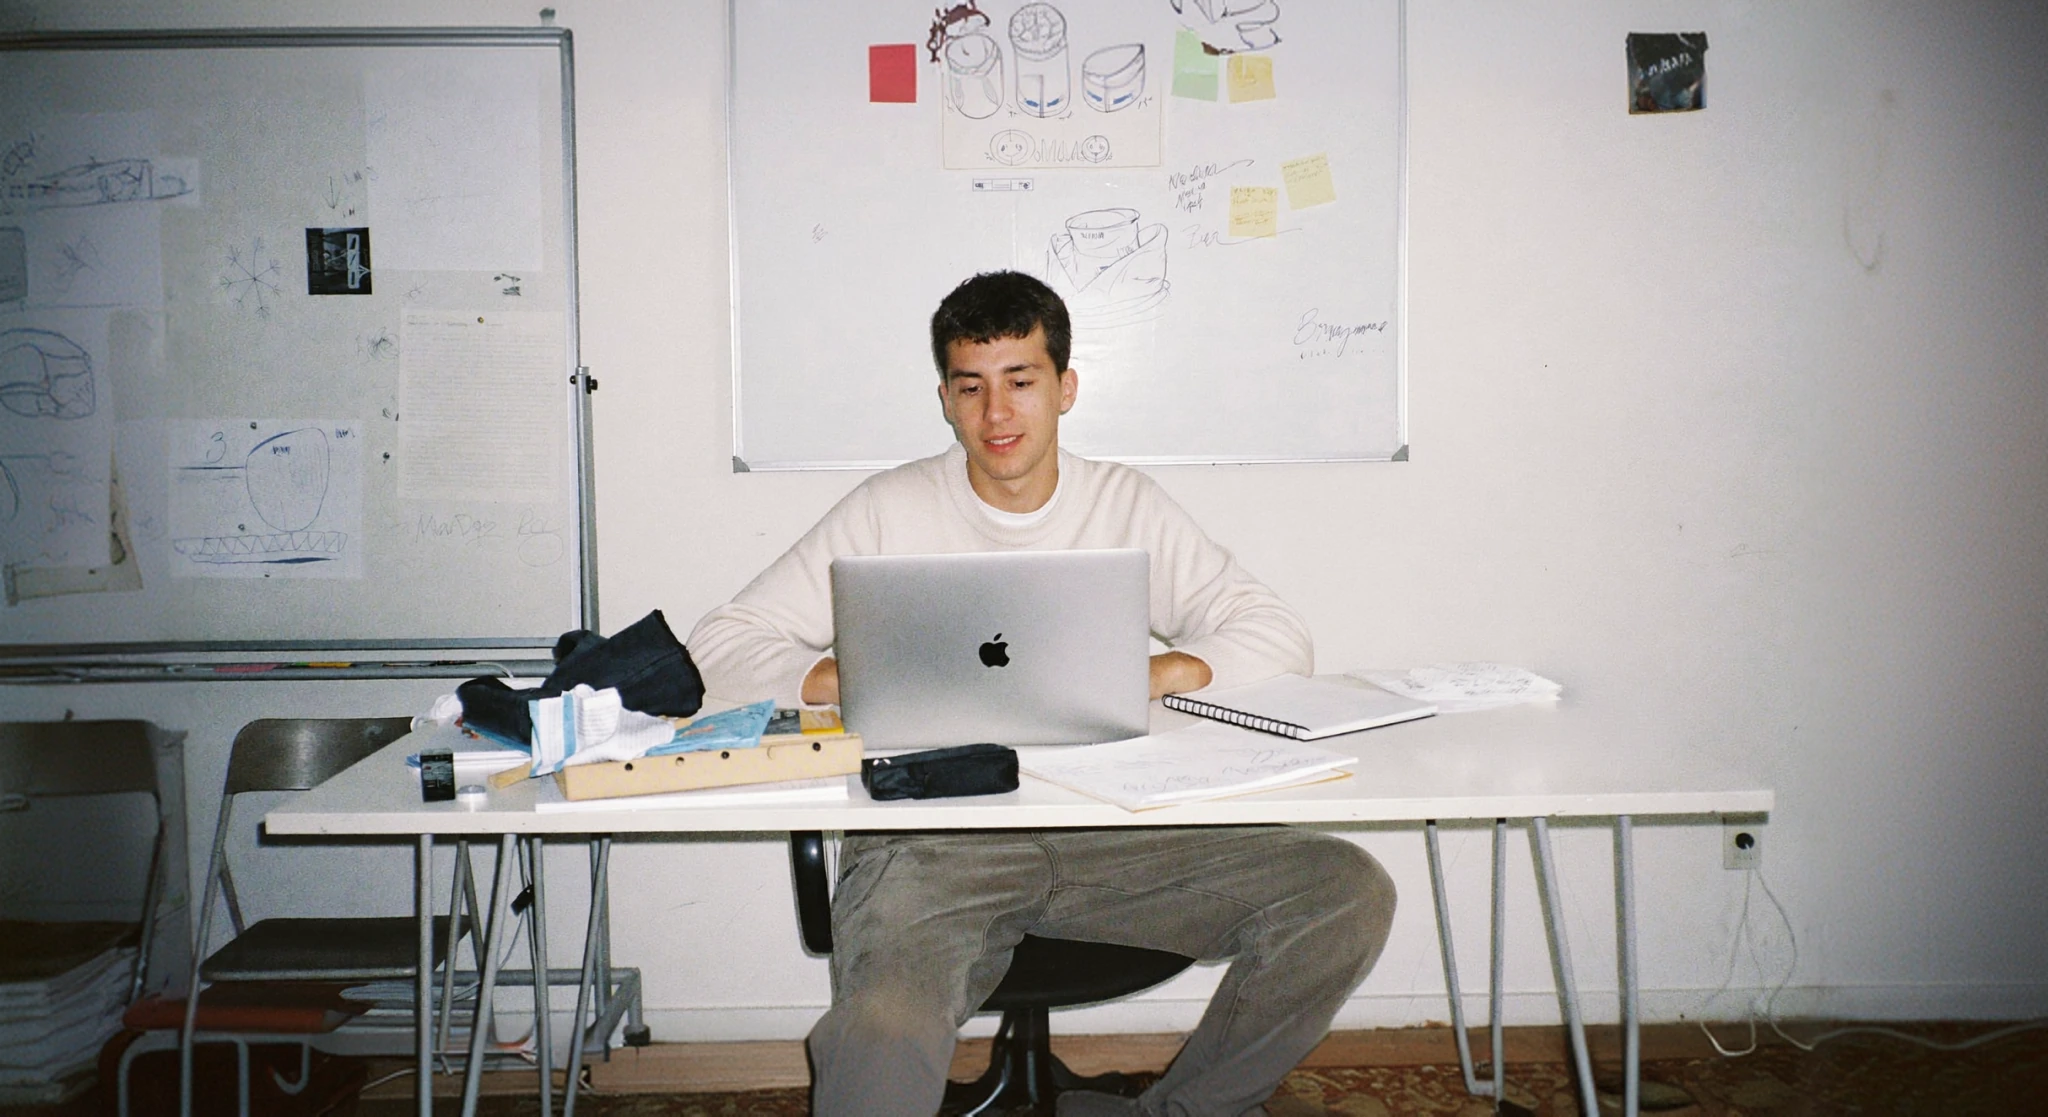
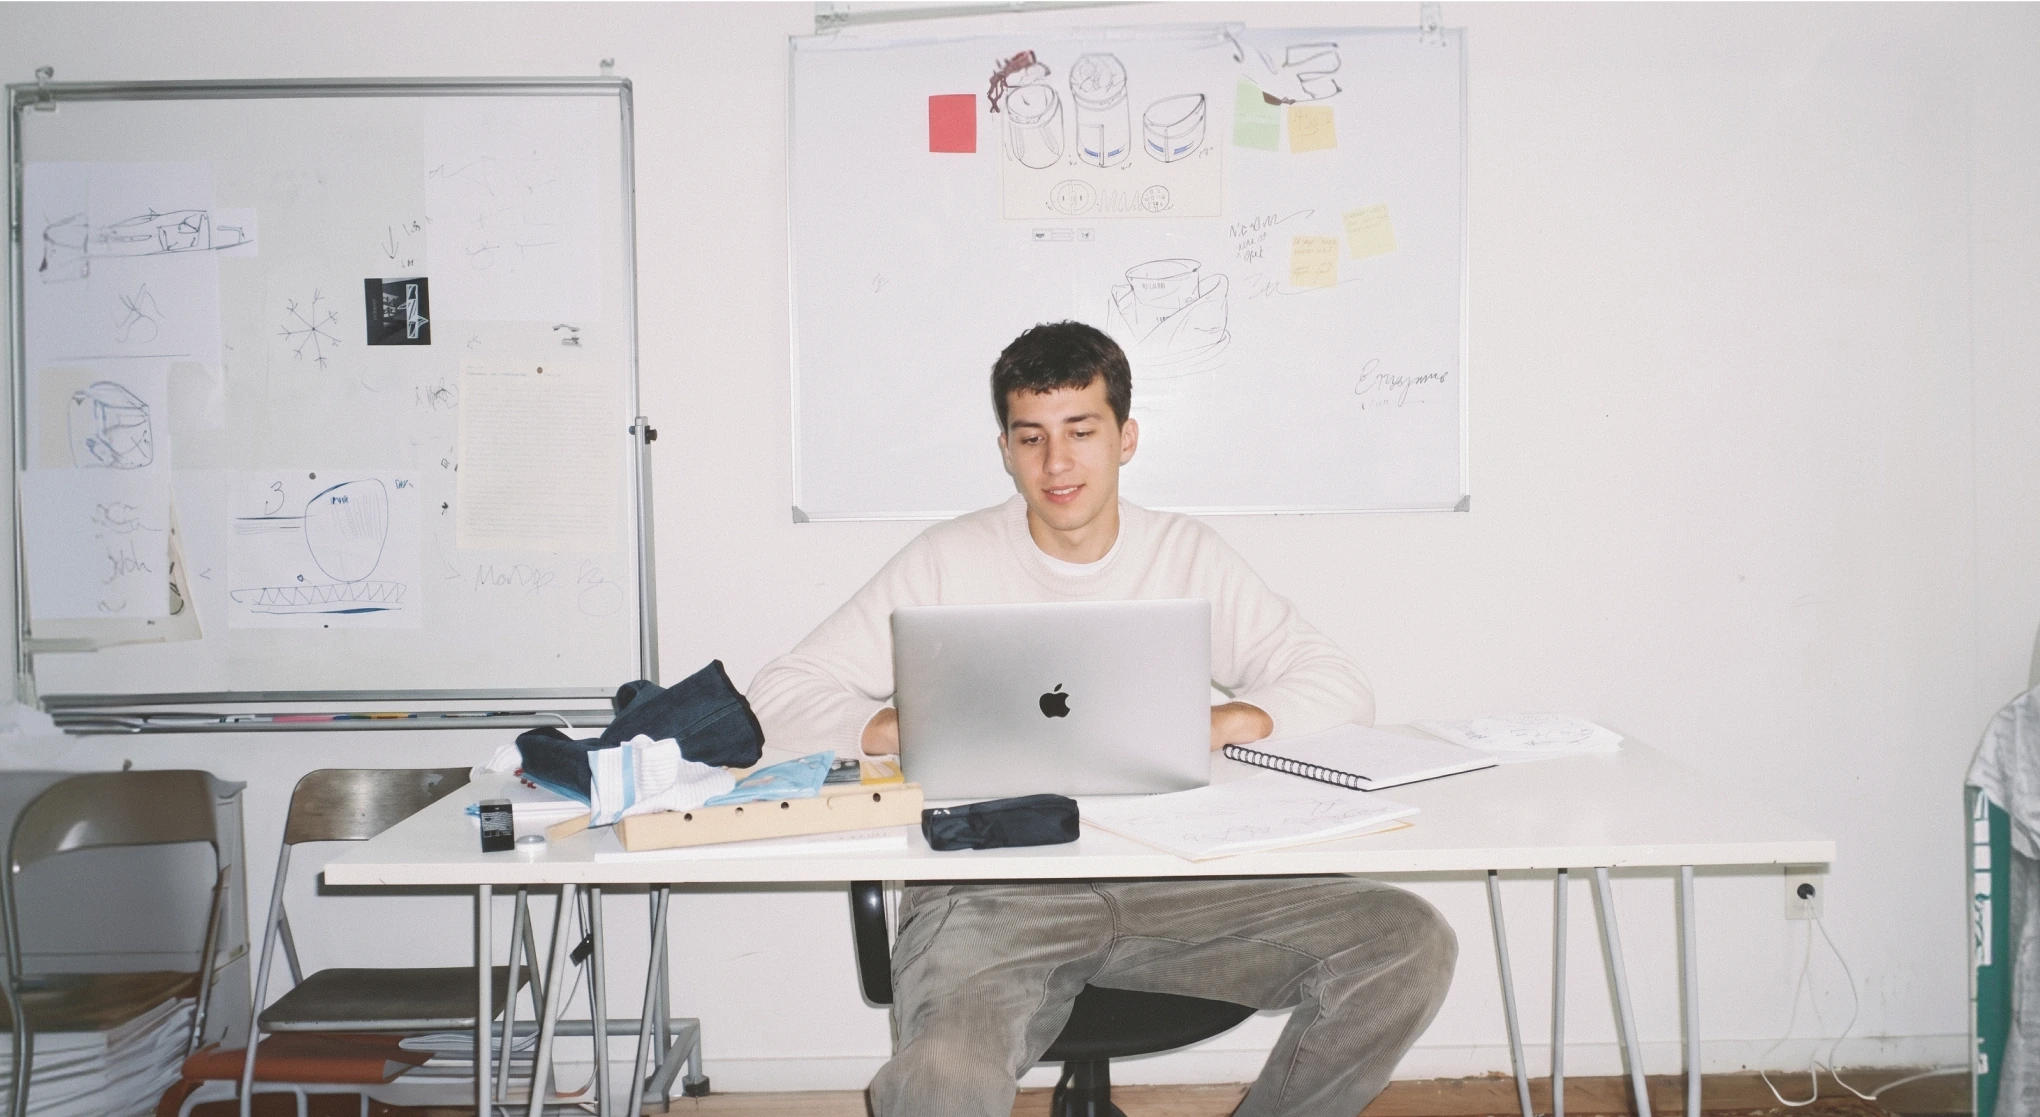
done 99% + polishing v4

diff --git a/src/components/sections/Hero.js b/src/components/sections/Hero.js
@@ -174,6 +174,7 @@ export default function Hero() {
         entries.forEach((entry) => {
           const video = entry.target;
           if (entry.isIntersecting) {
+            if (video.readyState === 0) video.load();
             if (video.paused) video.play().catch(() => { });
           } else {
             if (!video.paused) video.pause();
@@ -321,7 +322,7 @@ export default function Hero() {
                   muted
                   loop
                   playsInline
-                  preload="none"
+                  preload="auto"
                   className="h-full w-full object-cover"
                 >
                   <source
